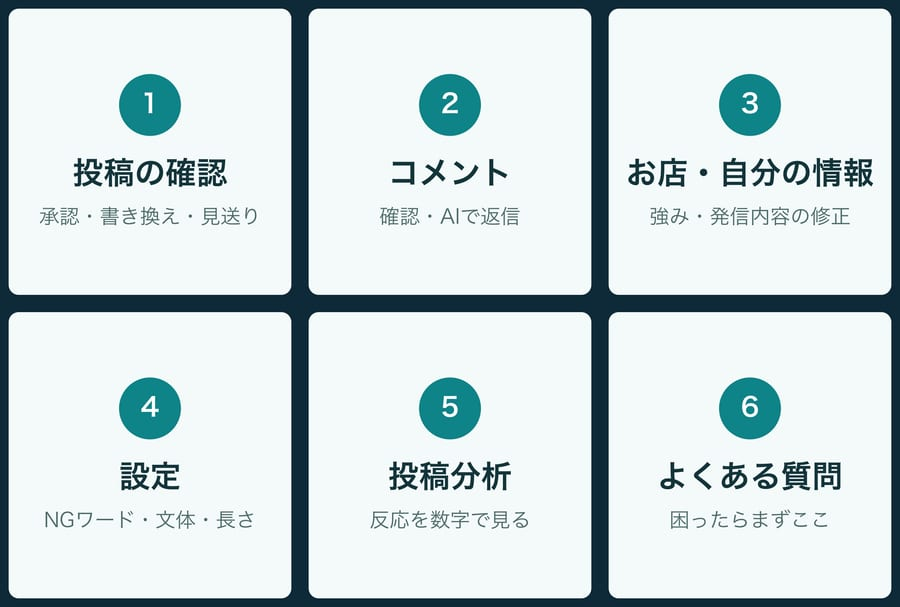
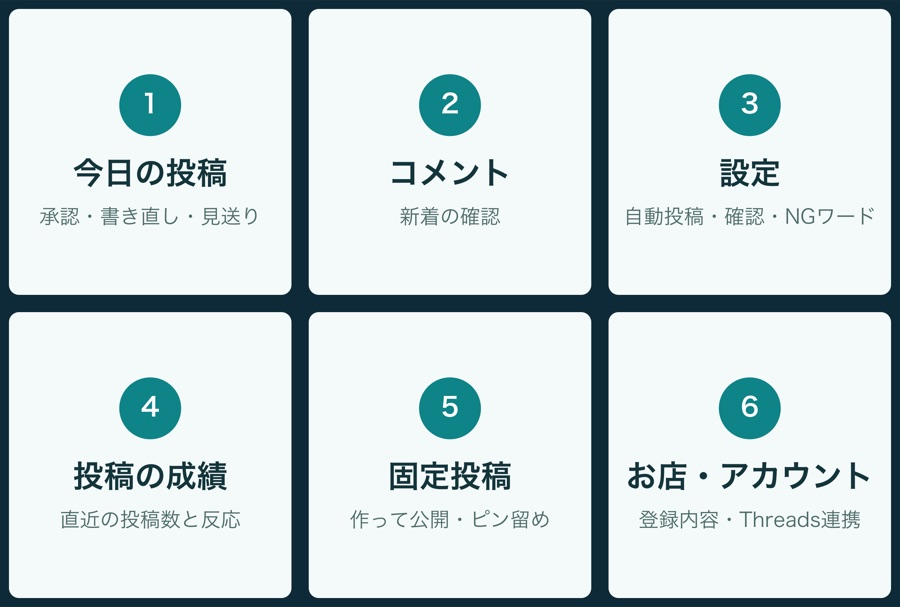
はじめの流れを現状に合わせて更新（会員登録が起点・固定投稿の公開とピン留めを追加）
- 3ステップ→4ステップ。STEP1を「会員登録をする」に、
  STEP3に固定投稿の作成・公開・ピン留めを追加
- LINEメニューの画像を最新（固定投稿を含む6ボタン）に差し替え
- パソコンの要否のFAQを、トーク内で完結する現状に合わせて修正
- 機能02にLINEでの作成・公開とピン留め案内を追記

diff --git a/index.html b/index.html
@@ -651,7 +651,8 @@
         <ul>
           <li>“お店の入口”になる自己紹介投稿をAIが作成</li>
           <li>予約・公式LINEへつながる導線を設計込みで</li>
-          <li>1回作れば長く使える。更新は月1回程度でOK</li>
+          <li>公式LINEのメニューから、作成から公開まで数タップ</li>
+          <li>プロフィールへのピン留めまで手順を案内</li>
         </ul>
       </div>
       <div class="feat fade">
@@ -755,10 +756,10 @@
         </div>
       </div>
       <div class="shot dark fade phone">
-        <img src="images/app-richmenu.jpg" alt="公式LINEのメニュー。投稿の確認・コメント・お店や自分の情報・設定・投稿分析・よくある質問の6つのボタン" loading="lazy" width="900" height="607">
+        <img src="images/app-richmenu.jpg" alt="公式LINEのメニュー。今日の投稿・コメント・設定・投稿の成績・固定投稿・お店とアカウントの6つのボタン" loading="lazy" width="900" height="607">
         <div class="cap">
           <b>公式LINEのメニュー</b>
-          <p>トーク画面の下に表示される6つのボタン。押すだけで、その画面がLINEの中で開きます。</p>
+          <p>トーク画面の下に表示される6つのボタン。押すだけで、その場で操作が終わります。アプリの画面を開く必要はありません。</p>
         </div>
       </div>
     </div>
@@ -920,23 +921,29 @@
 <section class="sec alt" id="start">
   <div class="wrap">
     <div class="sec-no"><span class="n">10</span><span class="line"></span></div>
-    <h2>たった3ステップ、合わせて1時間ほど</h2>
+    <h2>たった4ステップ、合わせて1時間ほど</h2>
     <p class="lede">ここまで終われば、翌日から自動で投稿が始まります。ステップ2から先はスマホのLINEの中だけで進められます。Threadsアカウントが未開設でも、開設からサポートいたします。</p>
     <div class="step-grid">
       <div class="stepc fade">
         <div class="bign">1</div>
-        <b>Threadsを連携</b>
-        <p>お店のThreadsアカウントと接続します。手順書のとおりに進めるだけです。</p>
-        <div class="time">目安 30〜40分</div>
+        <b>会員登録をする</b>
+        <p>お名前・メールアドレス・パスワードを入力するだけ。登録が終わると料金プランの画面が開くので、そこでプランを選びます。無料のフリープランから始めることもできます。</p>
+        <div class="time">目安 3分</div>
       </div>
       <div class="stepc fade">
         <div class="bign">2</div>
-        <b>目的を選んで、質問に答える</b>
-        <p>「お店の集客」か「個人にファンをつける」かを選び、業種・地域・強みなどの質問に答えるだけ。公式LINEのメニューから、トーク内でそのまま進められます。</p>
+        <b>公式LINEとつないで、質問に答える</b>
+        <p>公式LINEを友だち追加し、「登録済みの方はこちら」からアカウントとつなぎます。そのあと「お店の集客」か「個人にファンをつける」かを選び、業種・地域・強みなどの質問に答えるだけ。すべてトークの中で進められます。</p>
         <div class="time">目安 10〜15分</div>
       </div>
       <div class="stepc fade">
         <div class="bign">3</div>
+        <b>Threadsを連携して、固定投稿を作る</b>
+        <p>お店のThreadsアカウントと接続します。続けてLINEのメニューから固定投稿を作り、そのまま公開。最後にThreadsアプリでプロフィールにピン留めすれば、集客の入口が完成します。</p>
+        <div class="time">目安 30〜40分</div>
+      </div>
+      <div class="stepc fade">
+        <div class="bign">4</div>
         <b>自動投稿をON</b>
         <p>あとはAIにおまかせ。翌日から毎日の投稿が自動で始まり、確認の通知はLINEに届きます。</p>
         <div class="time">目安 1分</div>
@@ -957,7 +964,7 @@
       </details>
       <details class="fade">
         <summary><span class="q">Q</span>パソコンは必要ですか？<span class="plus">＋</span></summary>
-        <div class="a">ほとんど必要ありません。公式LINEを友だち追加していただくと、トーク下のメニューからアプリが開き、最初の設定（目的選び・質問への回答）も毎日の確認も、そのままLINEの中で進められます。Threadsとの連携作業だけは、初回の一度だけ通常のブラウザでの操作をおすすめしています。</div>
+        <div class="a">ほとんど必要ありません。公式LINEを友だち追加していただくと、最初の設定（目的選び・質問への回答）から、固定投稿の作成と公開、毎日の確認まで、アプリの画面を開かずにトークの中だけで進められます。Threadsとの連携作業だけは、初回の一度だけ通常のブラウザでの操作をおすすめしています。</div>
       </details>
       <details class="fade">
         <summary><span class="q">Q</span>お店ではなく、個人のアカウントを伸ばしたいのですが。<span class="plus">＋</span></summary>
